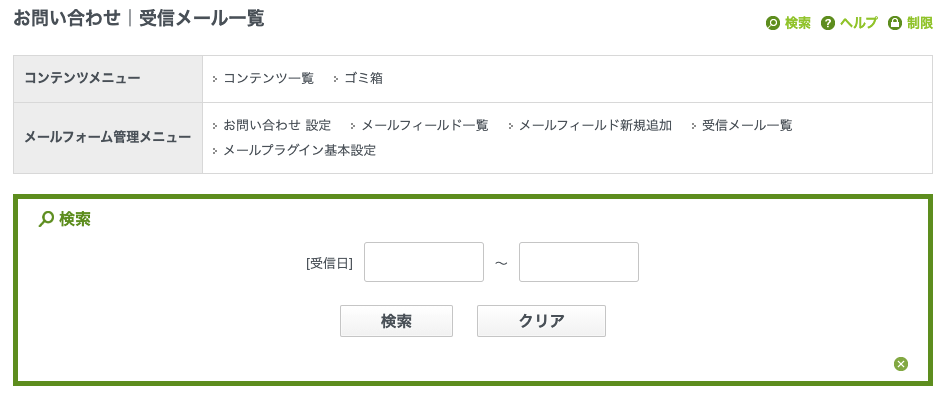
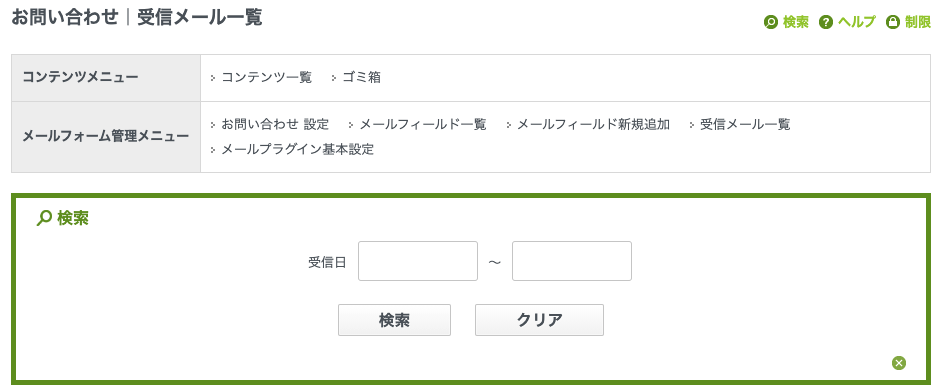
fix 不要な文字列を削除

diff --git a/View/Elements/admin/searches/simple_search_mail_message.php b/View/Elements/admin/searches/simple_search_mail_message.php
@@ -32,7 +32,7 @@
 				</span>
 			</span>
 		<?php else: ?>
-			<span>[受信日]</span>&nbsp;
+			<span>受信日</span>&nbsp;
 			<?php echo $this->BcForm->datePicker('MailMessage.created_begin', ['size' => 12, 'maxlength' => 10], true) ?>
 			&nbsp;〜&nbsp;
 			<?php echo $this->BcForm->datePicker('MailMessage.created_end', ['size' => 12, 'maxlength' => 10], true) ?>
